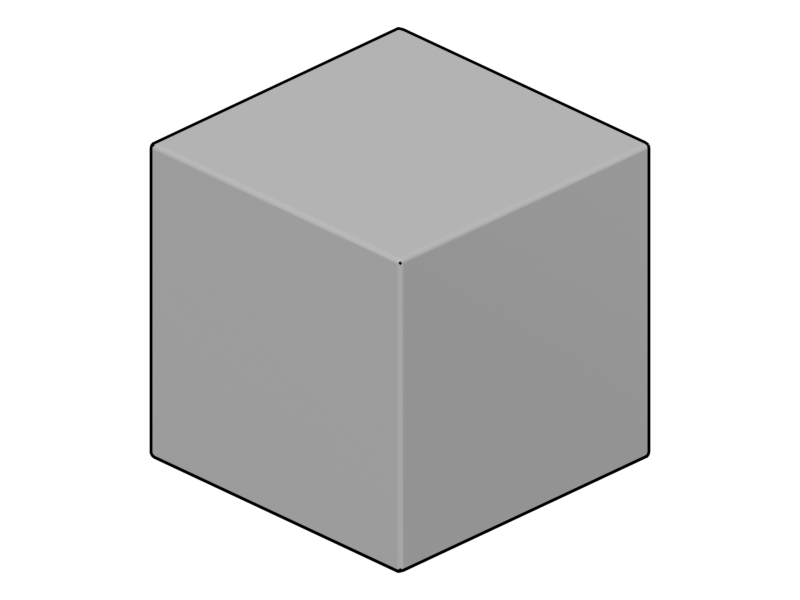
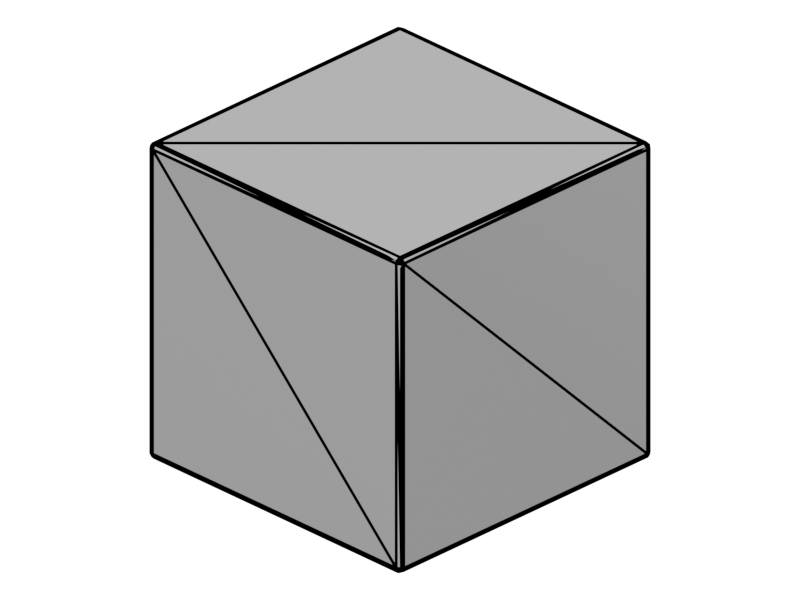
fix: mark all mesh edges as Freestyle edges for full wireframe coverage
Freestyle's default silhouette/crease-angle edge detection misses edges
between faces that stay coplanar or near-coplanar -- decimate_mesh and
subdivide_mesh's effect on this project's mostly-flat cube fixture
rendered visually identical before/after as a result. Explicitly marking
every edge as a Freestyle edge (bpy.ops.mesh.mark_freestyle_edge) makes
the wireframe show real topology regardless of face angle. Verified via a
synthetic flat-grid regression case before this fix, and by regenerating
and re-inspecting the actual gallery after it.

diff --git a/scripts/_blender_render_obj.py b/scripts/_blender_render_obj.py
@@ -47,6 +47,23 @@ def _import_obj(obj_path: str):
     return imported[0]
 
 
+def _mark_all_edges_freestyle(mesh_obj) -> None:
+    """Force every polygon edge into Freestyle's line set, not just
+    silhouette/crease-angle-detected edges -- otherwise flat/near-coplanar
+    topology changes (decimate, subdivide) render invisibly, since a
+    perfectly coplanar edge is 0 degrees no matter how the crease-angle
+    threshold is tuned. Confirmed via a synthetic flat-grid regression
+    test: internal grid lines were invisible before this, visible after."""
+    bpy.context.view_layer.objects.active = mesh_obj
+    bpy.ops.object.mode_set(mode="EDIT")
+    bpy.ops.mesh.select_all(action="SELECT")
+    bpy.ops.mesh.mark_freestyle_edge(clear=False)
+    bpy.ops.object.mode_set(mode="OBJECT")
+
+    lineset = bpy.context.view_layer.freestyle_settings.linesets["LineSet"]
+    lineset.select_edge_mark = True
+
+
 def _frame_camera(target, scene) -> None:
     corners = [target.matrix_world @ mathutils.Vector(c) for c in target.bound_box]
     center = sum(corners, mathutils.Vector()) / 8
@@ -87,6 +104,7 @@ def main() -> None:
     scene.render.filepath = png_path
     scene.render.use_freestyle = True
     bpy.context.view_layer.use_freestyle = True
+    _mark_all_edges_freestyle(mesh_obj)
 
     bpy.ops.render.render(write_still=True)
     print(f"wrote {png_path}")
